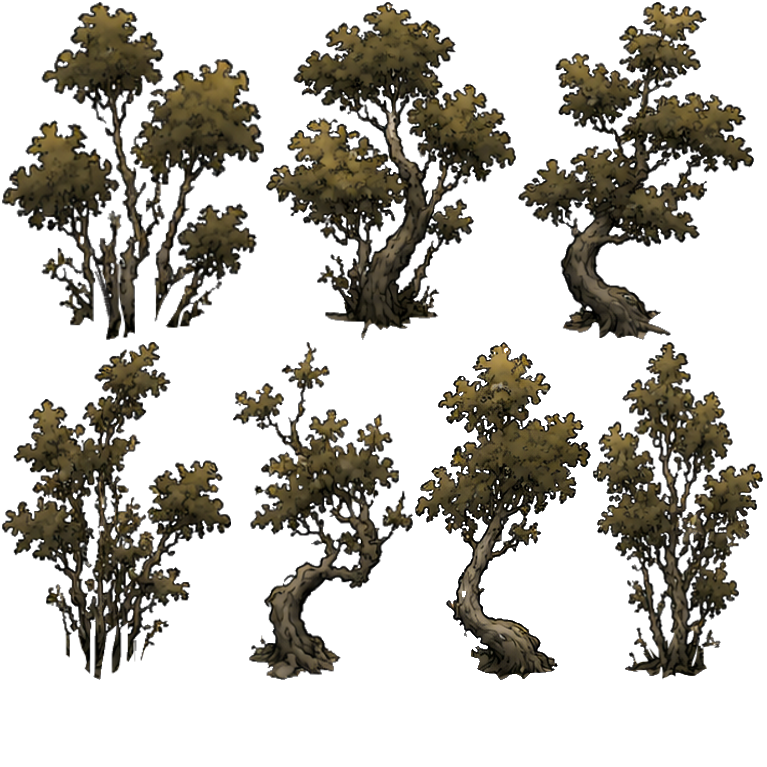
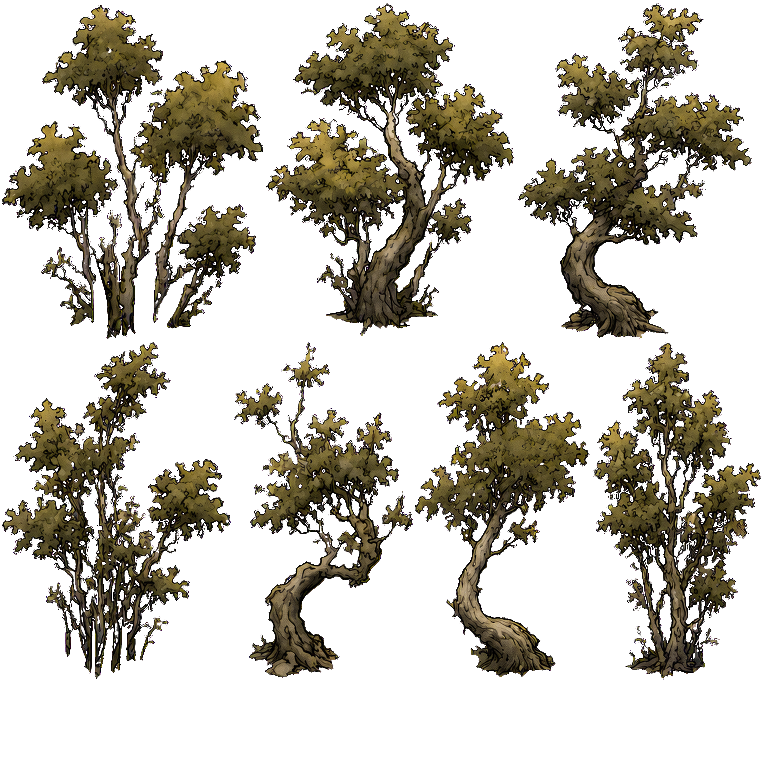
u

Changed region(s): [[0.0, 0.0, 0.6897, 0.8996], [0.2999, 0.0, 1.0, 0.8996]]

diff --git a/Source/Env/Editor/Editor.html b/Source/Env/Editor/Editor.html
@@ -660,6 +660,13 @@ function setTextureSampling(texture,scaleMode='linear',mipmaps=true){
 function setTextureSamplingMany(textures,scaleMode='linear',mipmaps=true){
  for(const texture of textures)setTextureSampling(texture,scaleMode,mipmaps);
 }
+function depthYForSprite(sp,bias=0){
+ if(!sp)return bias;
+ const y=Number(sp.position?.y)||0;
+ const h=Math.abs(Number(sp.height)||0);
+ const ay=Number(sp.anchor?.y)||0;
+ return y+h*Math.max(0,1-ay)+bias;
+}
 function isMobileStartupDevice(){
  const ua=navigator.userAgent||'';
  return document.body?.classList?.contains('mobile-ui')||/Android|iPhone|iPad|iPod|Mobile|Telegram/i.test(ua)||(navigator.maxTouchPoints||0)>0;
@@ -1998,10 +2005,9 @@ function dayNoonFactor(h=S.dayTime??14){
  return smootherStep01(clamp(1-dist/5.5,0,1));
 }
 function effectiveColorGradeSettings(){
- const noon=dayNoonFactor();
  return{
-  brightness:uiNum('cgBrightness',.12)+.14*noon,
-  contrast:uiNum('cgContrast',0)+(-.41)*noon,
+  brightness:uiNum('cgBrightness',.12),
+  contrast:uiNum('cgContrast',0),
   saturation:Math.max(0,uiNum('cgSaturation',1.22)),
   hue:uiNum('cgHue',0)
  };
@@ -5111,7 +5117,7 @@ function addVoidBiomeDecor(chunk,x,y,biome,base,c,globalScale){
   sp.position.set(p.x,p.y+c*.04);
   const mirrorX=(kind==='rock'||kind==='stone')?1:(hash2(x,y,S.world.seed^i)<.5?-1:1);
   sp.scale.set(mirrorX*scale,scale);
-  sp.zIndex=sp.position.y;
+  sp.zIndex=depthYForSprite(sp);
   {
    sp.tint=S.groundMode==='detailed'
     ?decorTintForBiome(biome,kind,kind==='rock'||kind==='stone')
@@ -5434,7 +5440,7 @@ function buildChunkDecor(chunk){
    sp.position.set(p.x,p.y+c*.08);
    const mirrorX=(kind==='rock'||kind==='stone')?1:(((base>>>29)&1)?-1:1);
    sp.scale.set(mirrorX*baseScale,baseScale);
-   sp.zIndex=sp.position.y;
+   sp.zIndex=depthYForSprite(sp);
    sp.tint=S.groundMode==='detailed'
     ?decorTintForBiome(biome,kind,kind==='rock'||kind==='stone')
     :0xffffff;sp._waterDecorDryTint=sp.tint;addOptimizedWaterDecor(chunk,sp,biome,kind,x+.5,y+.5);if(!(biome===0||biome===5))addWaterGradientOverlay(chunk,sp,biome);
@@ -5462,7 +5468,7 @@ function buildChunkDecor(chunk){
     sp.scale.set(((base>>>28)&1?-1:1)*(sc/7),sc/7);
     sp.tint=picked.isPlant?(S.groundMode==='detailed'?(isSnowBiome(biome)?snowDecorTint(biome):isDesertBiome(biome)?mixColors(0xffffff,grassTintForBiome(biome,n),.5):grassTintForBiome(biome,n)):0xffffff):(isSnowBiome(biome)?snowDecorTint(biome):isDesertBiome(biome)?mixColors(0xffffff,grassTintForTile(biome,role,n+grassIndex),.5):grassTintForTile(biome,role,n+grassIndex));
     sp.alpha=.96;
-    sp.zIndex=sp.position.y+(picked.isDesertPlantB ? -.8 : (uiCheck('enableFoliageWindShader',false)?-.8:-1))+n*.001;
+    sp.zIndex=depthYForSprite(sp)+n*.001;
     sp._waterDecorDryTint=sp.tint;addOptimizedWaterDecor(chunk,sp,biome,picked.isDesertPlantB?'desertPlantB':'grass',x+gp.x,y+gp.y,!picked.isDesertPlantB);
    }
   }
@@ -5482,7 +5488,7 @@ function buildChunkDecor(chunk){
    sp.scale.set(sc/7);
    sp.tint=densePick.isPlant?(S.groundMode==='detailed'?(isSnowBiome(biome)?snowDecorTint(biome):isDesertBiome(biome)?mixColors(0xffffff,grassTintForBiome(biome,denseIndex+3),.5):grassTintForBiome(biome,denseIndex+3)):0xffffff):(isSnowBiome(biome)?snowDecorTint(biome):isDesertBiome(biome)?mixColors(0xffffff,grassTintForTile(biome,role,denseIndex+3),.5):grassTintForTile(biome,role,denseIndex+3));
    sp.alpha=.97;
-   sp.zIndex=sp.position.y-.8;
+   sp.zIndex=depthYForSprite(sp);
    sp._waterDecorDryTint=sp.tint;addOptimizedWaterDecor(chunk,sp,biome,densePick.isDesertPlantB?'desertPlantB':'denseGrass',x+gp.x,y+gp.y,!densePick.isDesertPlantB);
   }
   const clutterBase=(role==='grass'||role==='tallGrass')
@@ -5697,7 +5703,7 @@ function placePlayer(){
  const rx=Number.isFinite(S.playerRenderX)?S.playerRenderX:S.player.x;
  const ry=Number.isFinite(S.playerRenderY)?S.playerRenderY:S.player.y;
  const p=iso(rx,ry,S.world.cell);
- S.playerSprite.position.set(p.x,p.y);S.playerSprite.zIndex=p.y+0.001;
+ S.playerSprite.position.set(p.x,p.y);S.playerSprite.zIndex=depthYForSprite(S.playerSprite)+0.001;
  if(S.playerShadow){S.playerShadow.position.set(p.x,p.y+Math.max(1,S.playerVisualHeight*.025));S.playerShadow.zIndex=p.y-0.002}
  if(S.playerParticles){S.playerParticles.zIndex=p.y-0.001}
  $('status').textContent=`${S.player.x|0}, ${S.player.y|0}`;
